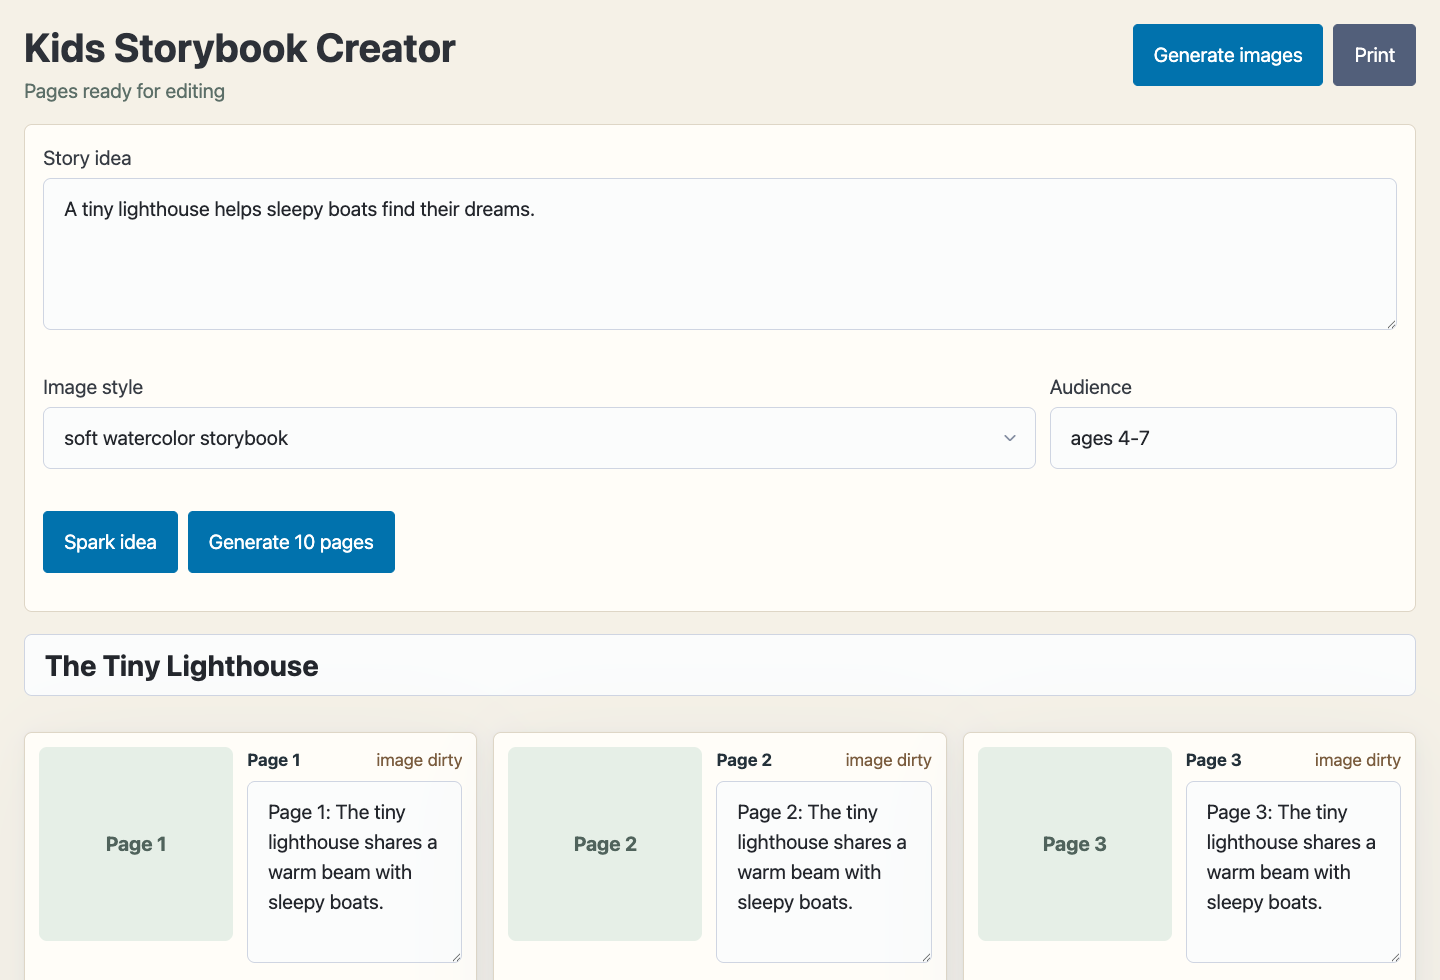
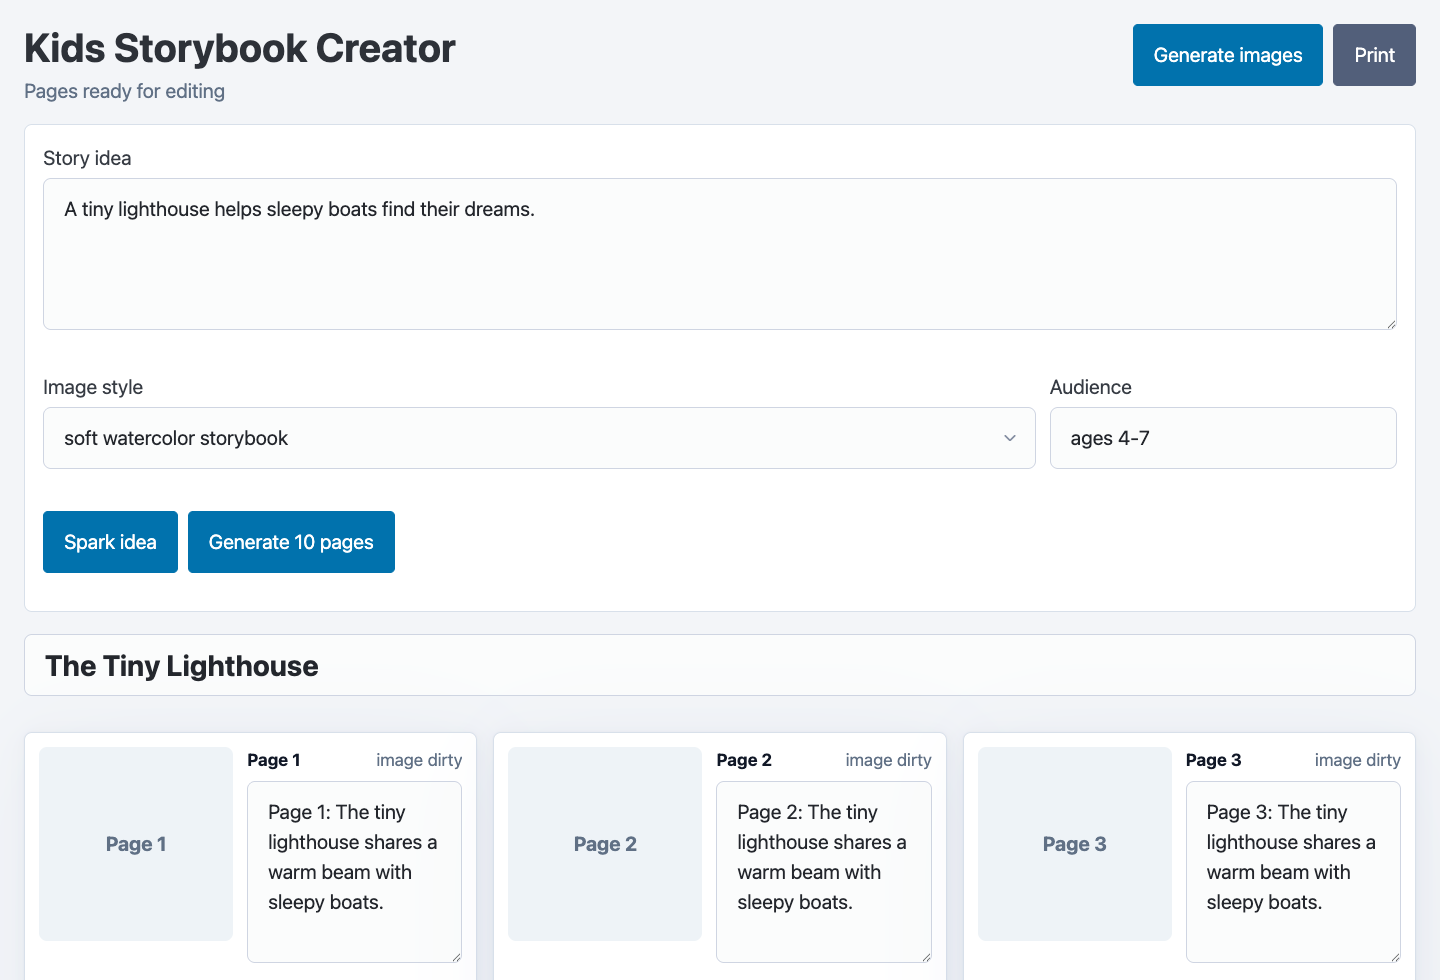
Align storybook UI styling

diff --git a/workloads/storybook/src/ui/styles.css b/workloads/storybook/src/ui/styles.css
@@ -1,11 +1,9 @@
-@import "@picocss/pico/css/pico.min.css";
-
 :root {
     --pico-font-family:
         Inter, ui-sans-serif, system-ui, -apple-system, BlinkMacSystemFont, "Segoe UI",
         sans-serif;
-    color: #24313a;
-    background: #f5f1e7;
+    color: #111827;
+    background: #f3f5f8;
 }
 
 * {
@@ -50,7 +48,7 @@ textarea {
 
 .toolbar p {
     margin: 6px 0 0;
-    color: #5c6f68;
+    color: #607085;
 }
 
 .toolbar-actions,
@@ -63,9 +61,9 @@ textarea {
 .setup-panel {
     display: grid;
     gap: 14px;
-    border: 1px solid #ded6c6;
+    border: 1px solid #d8e0ea;
     border-radius: 8px;
-    background: #fffdf8;
+    background: #ffffff;
     padding: 18px;
     margin-bottom: 22px;
 }
@@ -97,9 +95,9 @@ textarea {
     grid-template-columns: minmax(150px, 0.9fr) minmax(190px, 1fr);
     gap: 14px;
     margin: 0;
-    border: 1px solid #ded6c6;
+    border: 1px solid #d8e0ea;
     border-radius: 8px;
-    background: #fffdf8;
+    background: #ffffff;
     padding: 14px;
 }
 
@@ -109,8 +107,8 @@ textarea {
     place-items: center;
     overflow: hidden;
     border-radius: 8px;
-    background: #e6efe7;
-    color: #50635c;
+    background: #eef3f7;
+    color: #607085;
     font-weight: 700;
 }
 
@@ -133,7 +131,7 @@ textarea {
 }
 
 .page-meta span {
-    color: #7a5c3e;
+    color: #607085;
     overflow: hidden;
     text-overflow: ellipsis;
     white-space: nowrap;
@@ -146,7 +144,7 @@ textarea {
 
 .runtime {
     margin-top: 24px;
-    color: #61726b;
+    color: #607085;
 }
 
 .runtime dl {